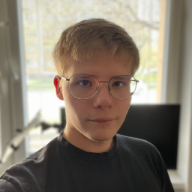
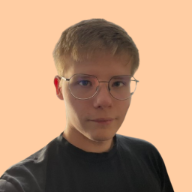
update photo

diff --git a/src/app/page.tsx b/src/app/page.tsx
@@ -2,7 +2,7 @@
 
 import Image from "next/image";
 
-import myPhoto from "@/../public/assets/2FFDA69D-7ECA-40C5-9E88-34F5C964209B_1_105_c.jpeg";
+import myPhoto from "@/../public/assets/2FFDA69D-7ECA-40C5-9E88-34F5C964209B_1_105_c-removebg-preview.png";
 import Link from "next/link";
 
 export default function HomePage() {
